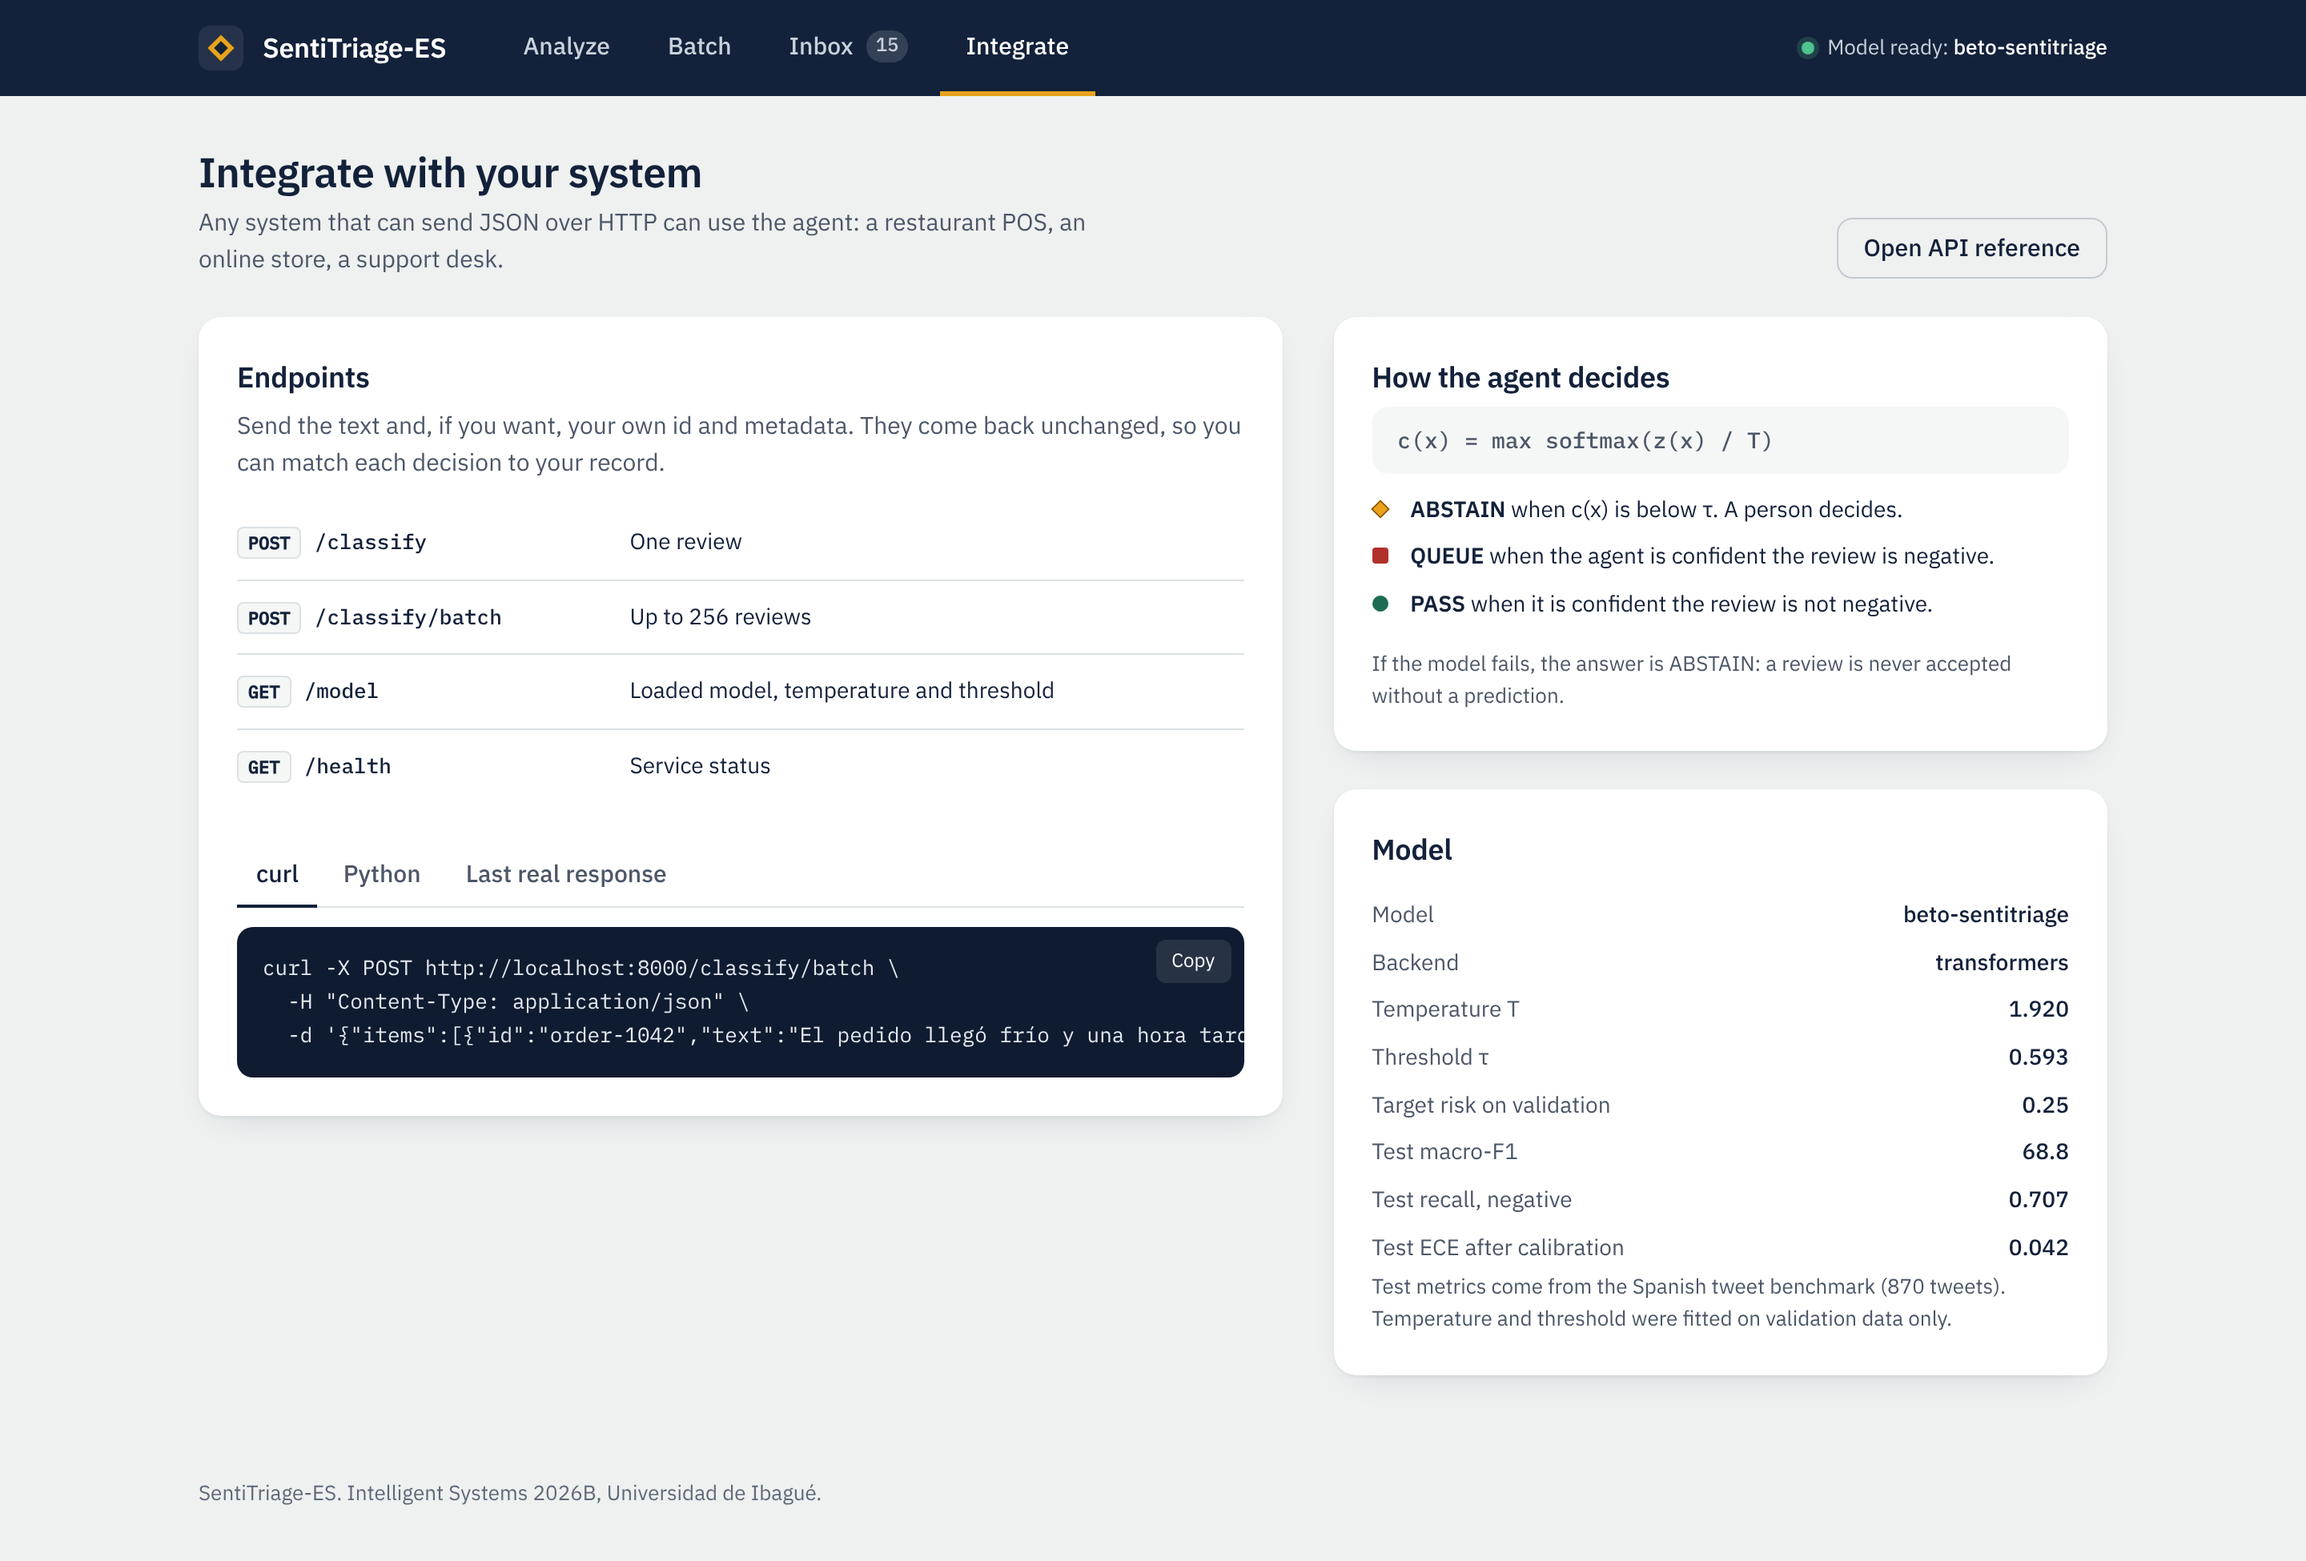
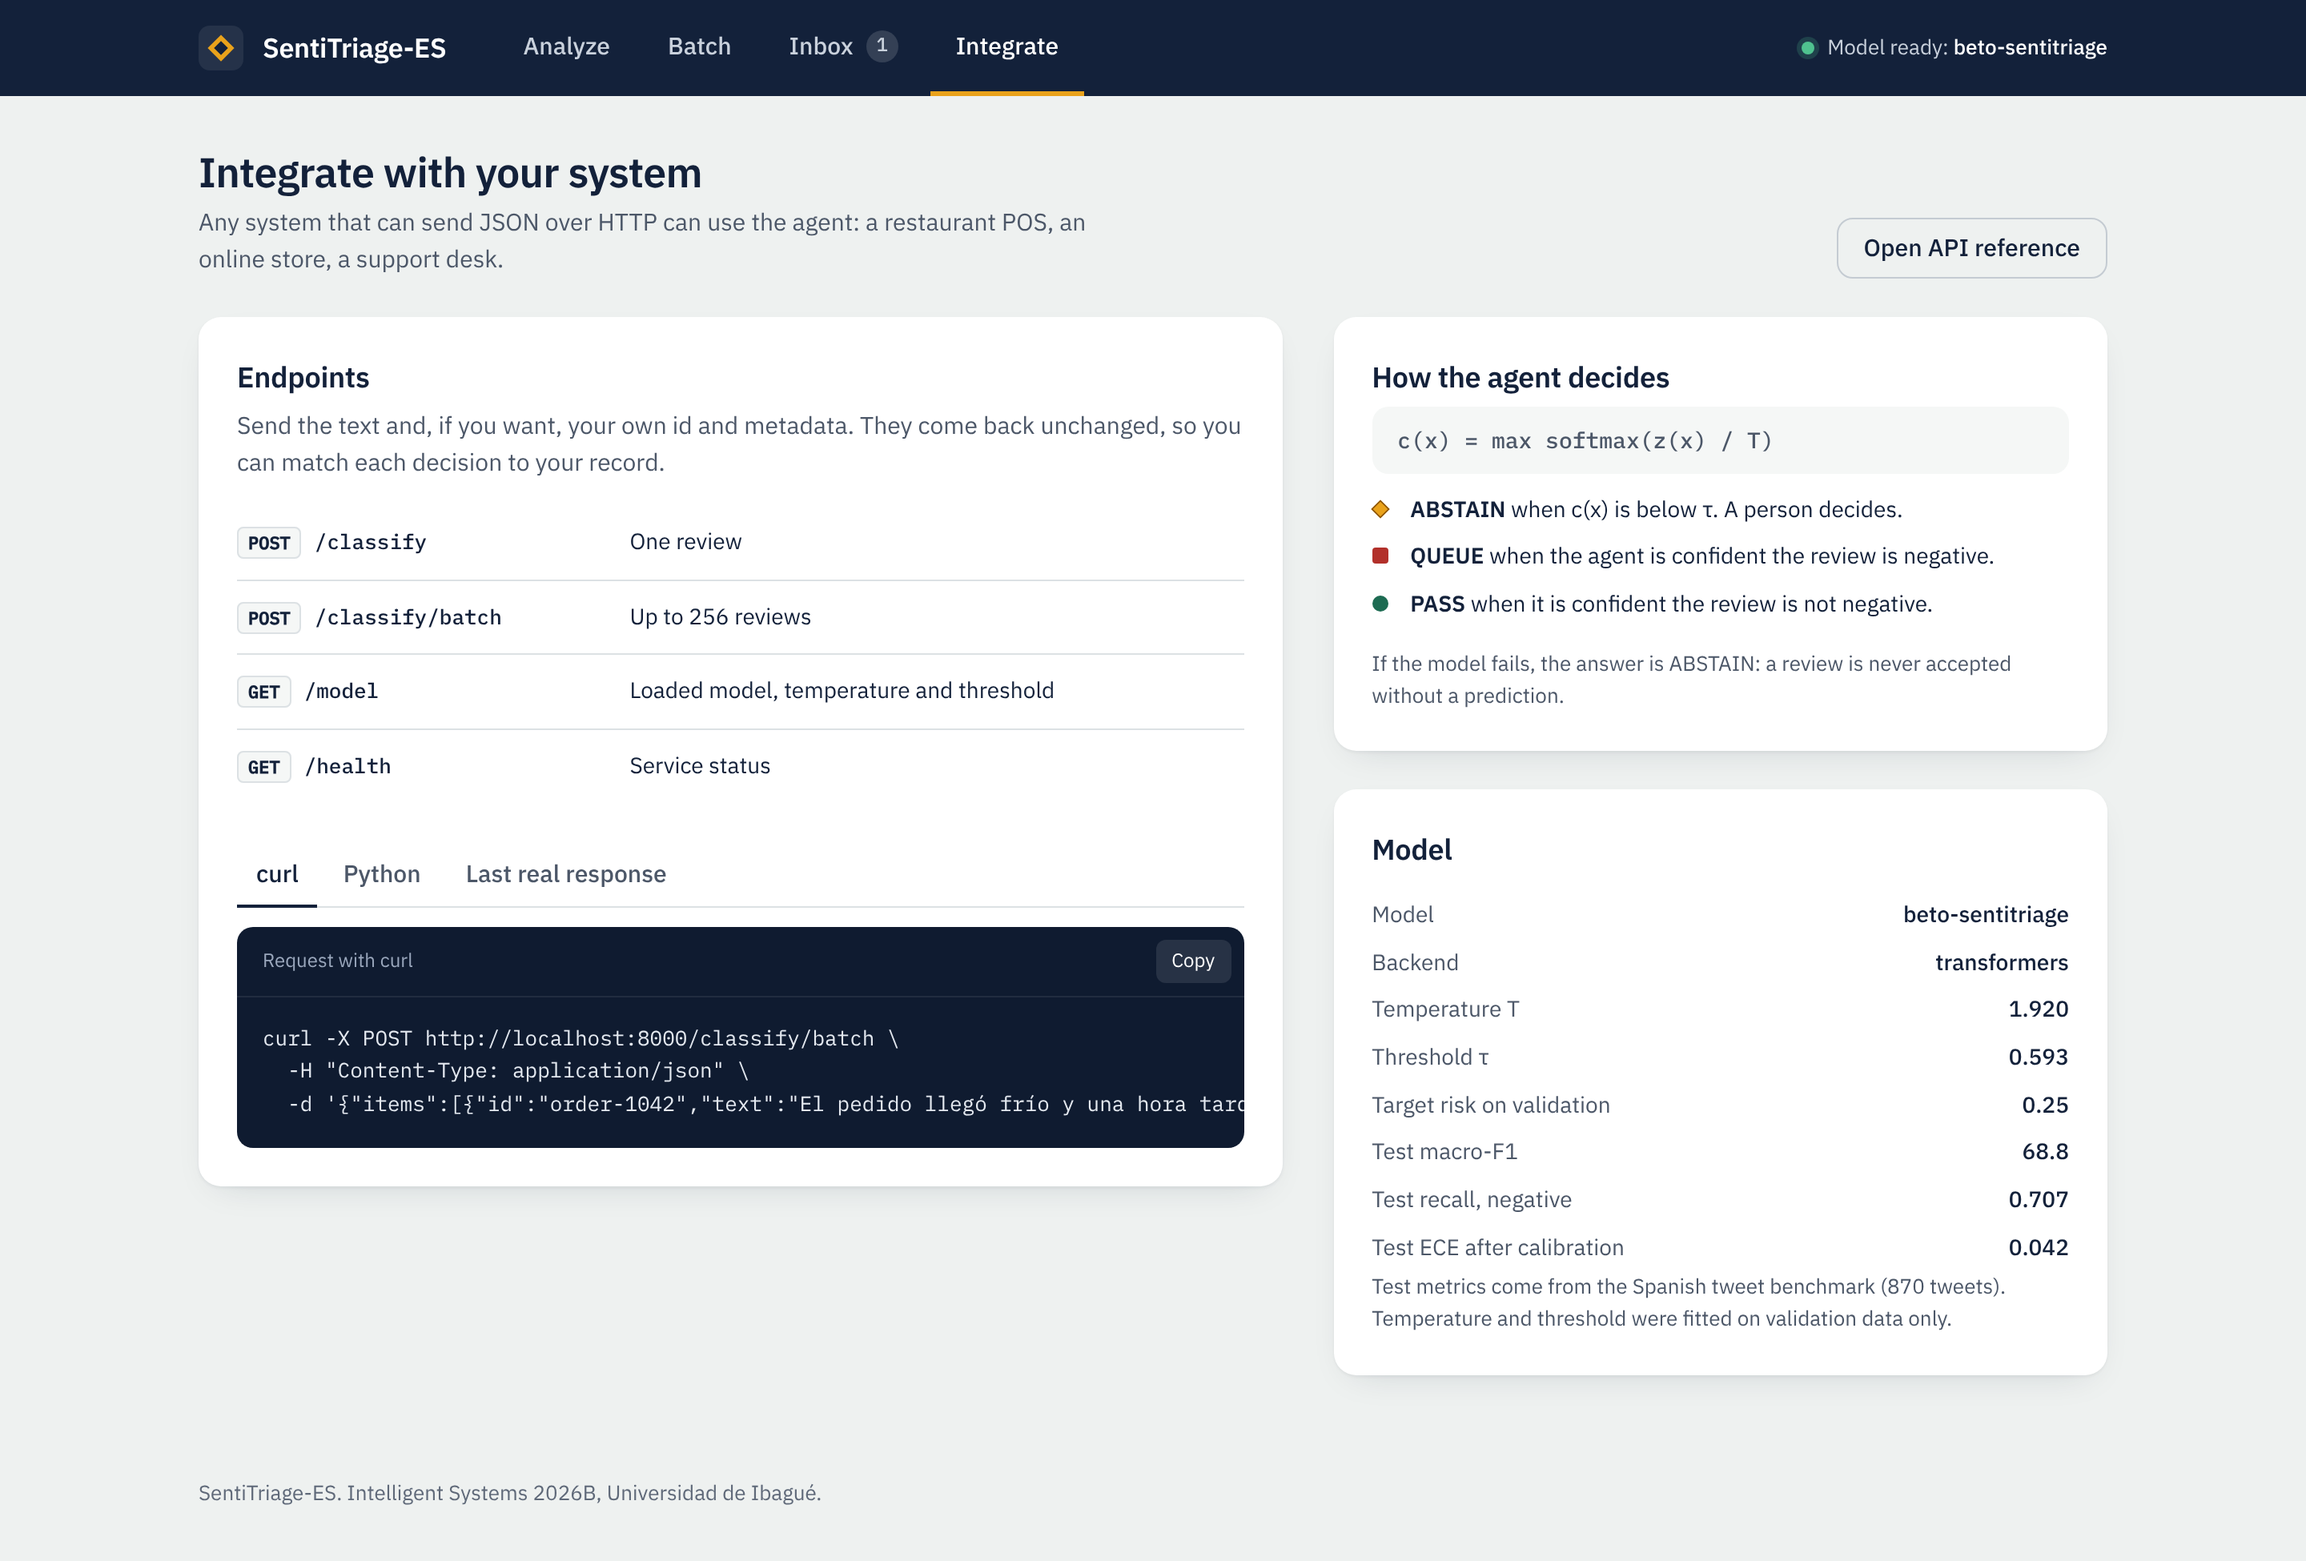
fix(ui): botón Copy en una franja fija del bloque de código, sin cruzarse con la barra de desplazamiento

Changed region(s): [[0.0938, 0.6154, 0.5625, 0.7385]]

diff --git a/service/static/index.html b/service/static/index.html
@@ -222,9 +222,16 @@ td.num,th.num{text-align:right;white-space:nowrap}
 .tabs{display:flex;gap:var(--s1);margin:var(--s5) 0 0;border-bottom:1px solid var(--rule)}
 .tabs button{background:none;border:0;padding:var(--s2) var(--s3);font-weight:500;color:var(--ink-2);border-bottom:2px solid transparent;margin-bottom:-1px}
 .tabs button[aria-selected="true"]{color:var(--ink);border-bottom-color:var(--ink)}
-.code{position:relative;margin:var(--s3) 0 0;background:#0F1B30;color:#E4E9F0;border-radius:var(--r-md);padding:var(--s4);overflow:auto;font:400 13px/1.6 var(--mono);white-space:pre;max-height:380px}
+.code-wrap{margin-top:var(--s3);background:#0F1B30;border-radius:var(--r-md);overflow:hidden}
+.code-head{display:flex;align-items:center;justify-content:space-between;gap:var(--s3);padding:var(--s2) var(--s2) var(--s2) var(--s4);
+  border-bottom:1px solid rgba(255,255,255,.08);font-size:12px;color:#9AA7BC}
+.code{margin:0;color:#E4E9F0;padding:var(--s4);overflow:auto;font:400 13px/1.6 var(--mono);white-space:pre;max-height:380px;
+  scrollbar-width:thin;scrollbar-color:#3A4A66 transparent}
+.code::-webkit-scrollbar{width:8px;height:8px}
+.code::-webkit-scrollbar-thumb{background:#3A4A66;border-radius:4px}
+.code::-webkit-scrollbar-track,.code::-webkit-scrollbar-corner{background:transparent}
 .code .k{color:#9CC3FF} .code .s{color:#F2D38A} .code .n{color:#A7E3C6} .code .c{color:#7F8BA0}
-.copy{position:absolute;top:var(--s2);right:var(--s2);background:rgba(255,255,255,.1);color:#fff;border:0;border-radius:var(--r-sm);padding:4px 10px;font-size:12px}
+.copy{flex:none;background:rgba(255,255,255,.1);color:#fff;border:0;border-radius:var(--r-sm);padding:4px 10px;font-size:12px}
 .copy:hover{background:rgba(255,255,255,.2)}
 .kv{display:grid;grid-template-columns:1fr auto;gap:var(--s2) var(--s4);margin:var(--s4) 0 0;font-size:14px}
 .kv dt{color:var(--ink-2)} .kv dd{margin:0;text-align:right;font-weight:500}
@@ -404,7 +411,7 @@ footer{max-width:1240px;margin:0 auto;padding:0 var(--s5) var(--s6);font-size:13
             <button role="tab" aria-selected="false" aria-controls="code-box" data-code="python">Python</button>
             <button role="tab" aria-selected="false" aria-controls="code-box" data-code="response">Last real response</button>
           </div>
-          <div style="position:relative"><pre class="code" id="code-box" role="tabpanel" tabindex="0"></pre><button class="copy" type="button" id="copy">Copy</button></div>
+          <div class="code-wrap"><div class="code-head"><span id="code-label">Request with curl</span><button class="copy" type="button" id="copy">Copy</button></div><pre class="code" id="code-box" role="tabpanel" tabindex="0" aria-labelledby="code-label"></pre></div>
         </section>
       </div>
       <div class="stack">
@@ -746,8 +753,8 @@ function hl(json) {
 }
 function codeText() {
   const req = {items: [{id: "order-1042", text: "El pedido llegó frío y una hora tarde.", metadata: {branch: "centro", channel: "app"}}]};
-  if (codeTab === "curl") return {text: `curl -X POST ${origin}/classify/batch \\\n  -H "Content-Type: application/json" \\\n  -d '${JSON.stringify(req)}'`, html: false};
-  if (codeTab === "python") return {text:
+  if (codeTab === "curl") return {label: "Request with curl", text: `curl -X POST ${origin}/classify/batch \\\n  -H "Content-Type: application/json" \\\n  -d '${JSON.stringify(req)}'`, html: false};
+  if (codeTab === "python") return {label: "Request with Python (standard library only)", text:
 `import json, urllib.request
 
 body = ${JSON.stringify(req, null, 4).replace(/\n/g, "\n")}
@@ -756,15 +763,16 @@ req = urllib.request.Request("${origin}/classify/batch",
                              headers={"Content-Type": "application/json"})
 for decision in json.load(urllib.request.urlopen(req)):
     print(decision["id"], decision["action"], decision["confidence"])`, html: false};
-  if (!lastResponse) return {text: "// Classify a review in Analyze or Batch to see the real response here.", html: false};
+  if (!lastResponse) return {label: "Last real response", text: "Classify a review in Analyze or Batch to see the real response here.", html: false};
   const shown = Array.isArray(lastResponse.data) ? lastResponse.data.slice(0, 2) : lastResponse.data;
-  const head = `// POST ${lastResponse.url}${Array.isArray(lastResponse.data) && lastResponse.data.length > 2 ? `  (first 2 of ${lastResponse.data.length})` : ""}\n`;
-  return {text: head + JSON.stringify(shown, null, 2), html: true};
+  const more = Array.isArray(lastResponse.data) && lastResponse.data.length > 2 ? `, first 2 of ${lastResponse.data.length}` : "";
+  return {label: `Response from POST ${lastResponse.url}${more}`, text: JSON.stringify(shown, null, 2), html: true};
 }
 function renderCode() {
-  const {text, html} = codeText();
+  const {label, text, html} = codeText();
   const box = $("code-box");
-  if (html) { const [first, ...rest] = text.split("\n"); box.innerHTML = `<span class="c">${first.replace(/</g, "&lt;")}</span>\n` + hl(rest.join("\n")); }
+  $("code-label").textContent = label;
+  if (html) box.innerHTML = hl(text);
   else box.textContent = text;
   document.querySelectorAll(".tabs button").forEach(b => b.setAttribute("aria-selected", String(b.dataset.code === codeTab)));
 }
